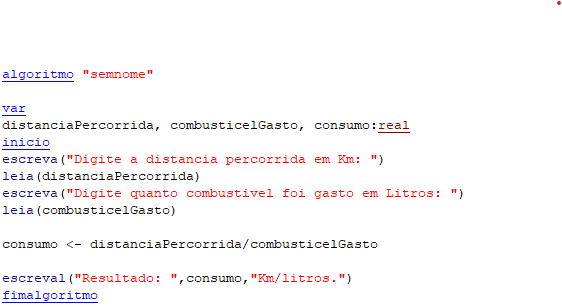
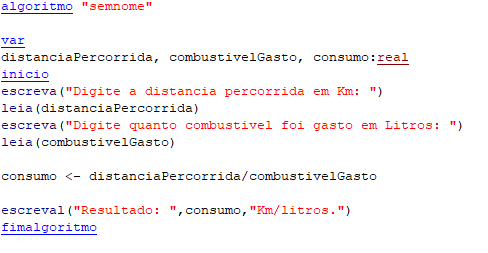
mudando imagem

diff --git a/index.html b/index.html
@@ -24,12 +24,12 @@
         algoritmo "semnome" <br><br>
 
 var <br>
-distanciaPercorrida, combusticelGasto, consumo:real <br>
+distanciaPercorrida, combustivelGasto, consumo:real <br>
 inicio <br>
 escreva("Digite a distancia percorrida em Km: ") <br>
 leia(distanciaPercorrida) <br>  
 escreva("Digite quanto combustivel foi gasto em Litros: ") <br>
-leia(combusticelGasto) <br><br>
+leia(combustivelGasto) <br><br>
 
 consumo <- distanciaPercorrida/combusticelGasto <br><br>
 
